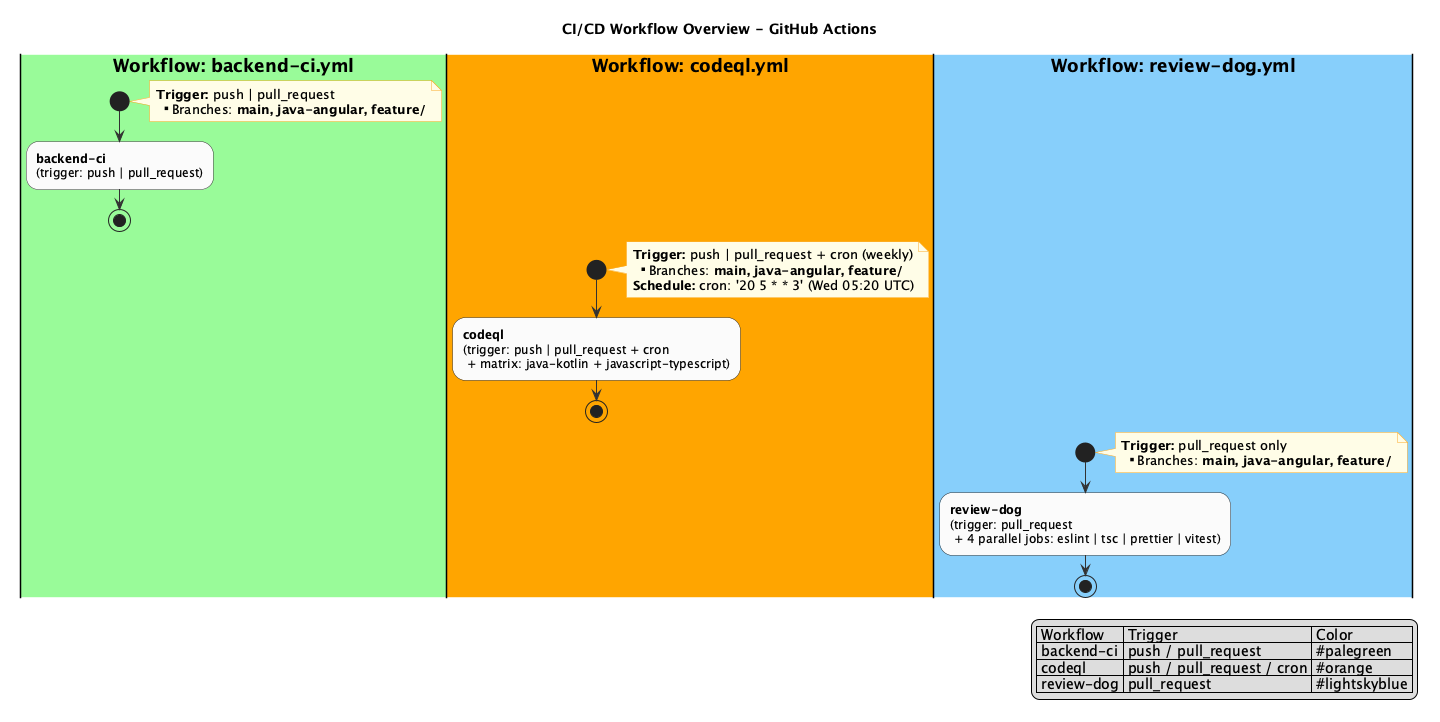
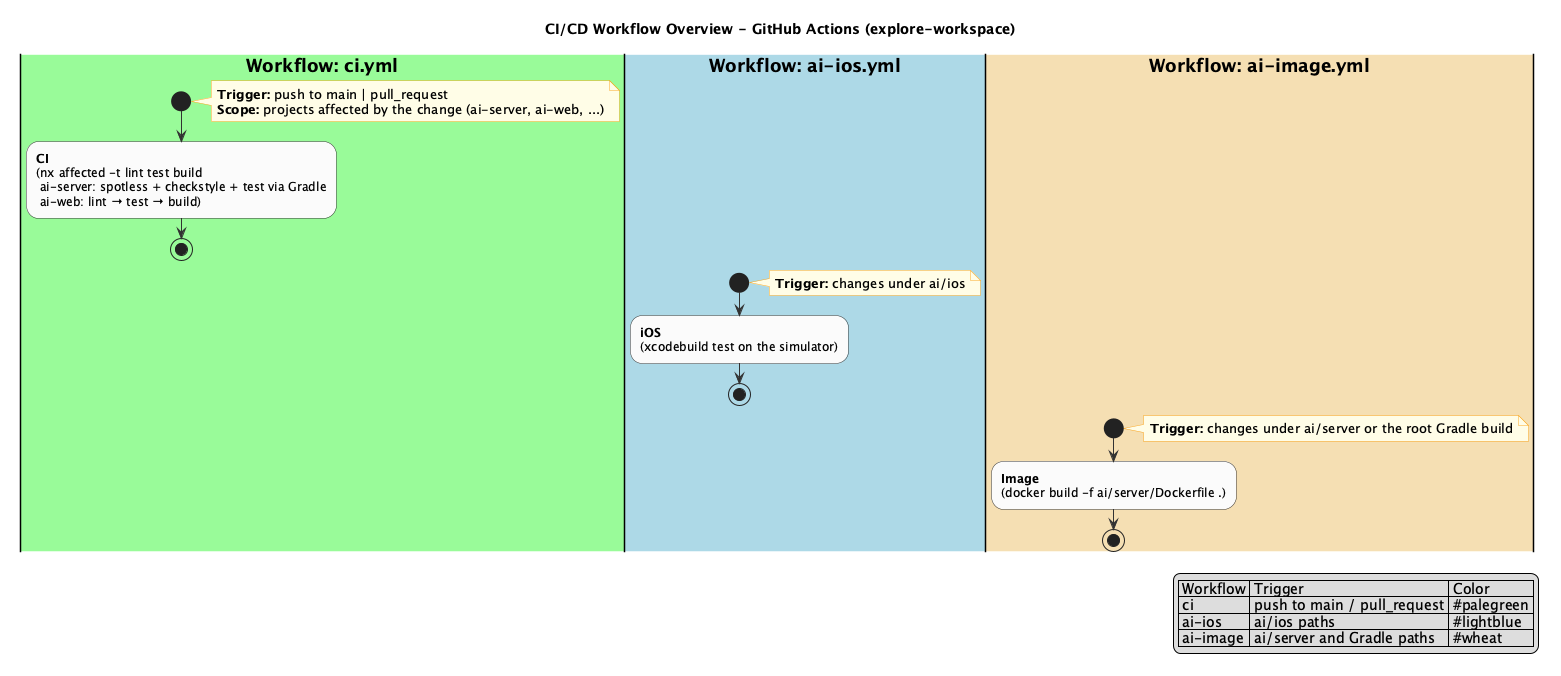
Run ai checks in the workspace CI (#24)
ai's own workflows still pointed at its old layout and do not run from
ai/.github. The root CI already lints, tests and builds ai through nx
affected. Add an iOS workflow and a deploy image build with ai paths,
carry the zod major-version hold into the root Dependabot config, and
drop the Husky pre-commit hook, which never runs outside the repository
root and only repeated what CI checks.

References:

- https://docs.github.com/en/actions/writing-workflows/workflow-syntax-for-github-actions#onpushpull_requestpull_request_targetpathspaths-ignore
- https://docs.github.com/en/code-security/dependabot/working-with-dependabot/dependabot-options-reference
- https://typicode.github.io/husky/get-started.html

diff --git a/ai/README.md b/ai/README.md
@@ -73,7 +73,7 @@ Run unit tests with `./gradlew :ai-server:test` from the workspace root. Run end
 
 ## Contributing
 
-See [CONTRIBUTING.md](CONTRIBUTING.md). Open an issue or pull request on [GitHub](https://github.com/felixzhu97/explore-ai). Keep domain and API names aligned with the [Glossary](docs/Glossary.md) when changing behavior or docs. Participation is governed by the [Code of Conduct](CODE_OF_CONDUCT.md).
+See [CONTRIBUTING.md](CONTRIBUTING.md). Open an issue or pull request on [GitHub](https://github.com/felixzhu97/explore-workspace). Keep domain and API names aligned with the [Glossary](docs/Glossary.md) when changing behavior or docs. Participation is governed by the [Code of Conduct](CODE_OF_CONDUCT.md).
 
 ## Security
 

diff --git a/ai/docs/developer/cicd/README.md b/ai/docs/developer/cicd/README.md
@@ -10,9 +10,13 @@ GitHub Actions 工作流相关的架构图。
 
 ## 工作流（源文件）
 
+工作流在 explore-workspace 根目录的 `.github/workflows/` 下。
+
 | 工作流 | 说明 |
 | ------ | ---- |
-| `.github/workflows/ci.yml` | PR/push 门禁：Backend（spotless、checkstyle、test）+ Frontend（typecheck、lint、test、build） |
+| `ci.yml` | PR 和推送到 main 的门禁：对受影响的项目执行 `nx affected -t lint test build`（ai-server 跑 spotless、checkstyle、test，ai-web 跑 lint、test、build） |
+| `ai-ios.yml` | `ai/ios` 有改动时在模拟器上构建并测试 iOS 应用 |
+| `ai-image.yml` | `ai/server` 或根 Gradle 构建有改动时构建部署镜像 |
 
 ## 查看
 
